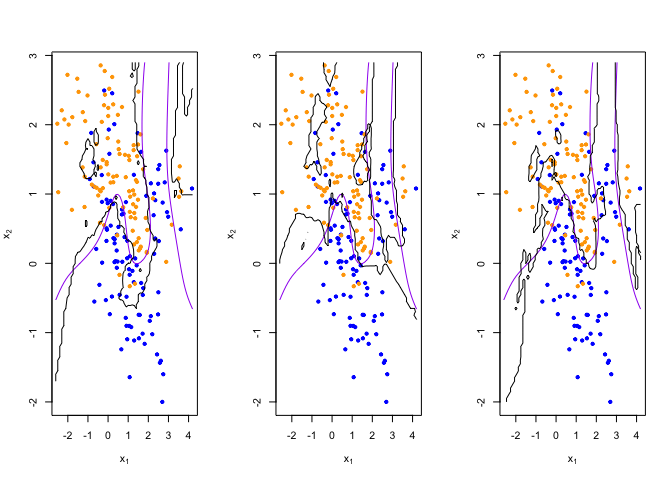
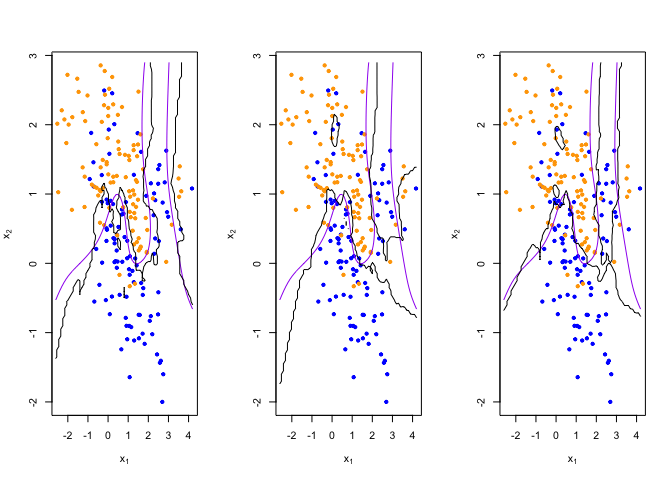
resubmission of hw1

diff --git a/HW1/HW1-ZhanZ.md b/HW1/HW1-ZhanZ.md
@@ -1,7 +1,7 @@
 Homework 1
 ================
 Zhan, Zhuoyi
-Fri Jan 28 13:23:53 2022
+Mon Jan 31 17:06:47 2022
 
 ``` r
 library('class')
@@ -126,8 +126,29 @@ summary(beta_lm)
 ``` r
 newx <-data.frame(dat$xnew)
 newx <- rename(newx, X1= x1, X2=x2)
-pred <- predict.lm(beta_lm, newx)
+lm_pred <- predict.lm(beta_lm, newx)
+## reshape predictions as a matrix
+lm_pred <- matrix(lm_pred, length(dat$px1), length(dat$px2))
+contour(lm_pred,
+      xlab=expression(x[1]),
+      ylab=expression(x[2]))
 ```
+
+![](HW1-ZhanZ_files/figure-gfm/unnamed-chunk-4-1.png)<!-- -->
+
+``` r
+## find the contours in 2D space such that lc_pred == 0.5
+lc_cont <- contourLines(dat$px1, dat$px2, lm_pred, levels=0.5)
+
+## plot data and decision surface
+eval(plot_mix_data)
+sapply(lc_cont, lines)
+```
+
+![](HW1-ZhanZ_files/figure-gfm/unnamed-chunk-4-2.png)<!-- -->
+
+    ## [[1]]
+    ## NULL
 
 # Question 2
 
@@ -162,14 +183,42 @@ summary(sq_beta_lm)
     ## Multiple R-squared:  0.2921, Adjusted R-squared:  0.2775 
     ## F-statistic: 20.11 on 4 and 195 DF,  p-value: 6.985e-14
 
+``` r
+sq_pred <- matrix(sq_pred, length(dat$px1), length(dat$px2))
+contour(sq_pred,
+      xlab=expression(x[1]),
+      ylab=expression(x[2]))
+```
+
+![](HW1-ZhanZ_files/figure-gfm/unnamed-chunk-5-1.png)<!-- -->
+
+``` r
+## find the contours in 2D space such that lc_pred == 0.5
+lc_cont <- contourLines(dat$px1, dat$px2, sq_pred, levels=0.5)
+
+## plot data and decision surface
+eval(plot_mix_data)
+sapply(lc_cont, lines)
+```
+
+![](HW1-ZhanZ_files/figure-gfm/unnamed-chunk-5-2.png)<!-- -->
+
+    ## [[1]]
+    ## NULL
+
 # Question 3
 
-Error is the combination of bias and variance. As the model gets more
-flexible, we are reducing testing error which means the model is fitted
-better, But when the level of complexity gets higher and higher, the
-model will overfit and the test error goes higher again. So the
-bias-variance tradeoff means that we need to reach the optimal level of
-flexibility, to minimize the test error.
+Error is the combination of bias and variance. Because we never know the
+underlying function, we use fitted function to estimate it. The distance
+between the true model and the fitted model is the bias. Variance means
+that the fitted models change from one sample to another a lot. By
+adding squared terms into the linear regression function, the model gets
+more flexible because it becomes curvy and getting closer to the true
+decision boundary between two categories. We are reducing testing error
+which means the model is fitted better, But when the level of complexity
+gets higher and higher, the model will overfit and the test error goes
+higher again. So the bias-variance tradeoff means that we need to reach
+the optimal level of flexibility, to minimize the test error.
 
 ``` r
 ## fit knn classifier
